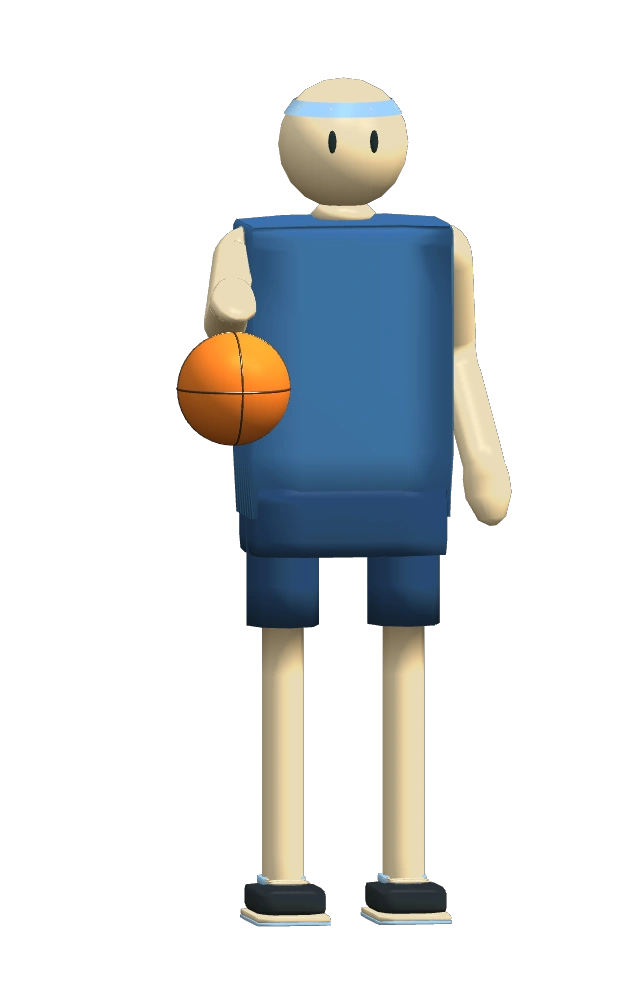
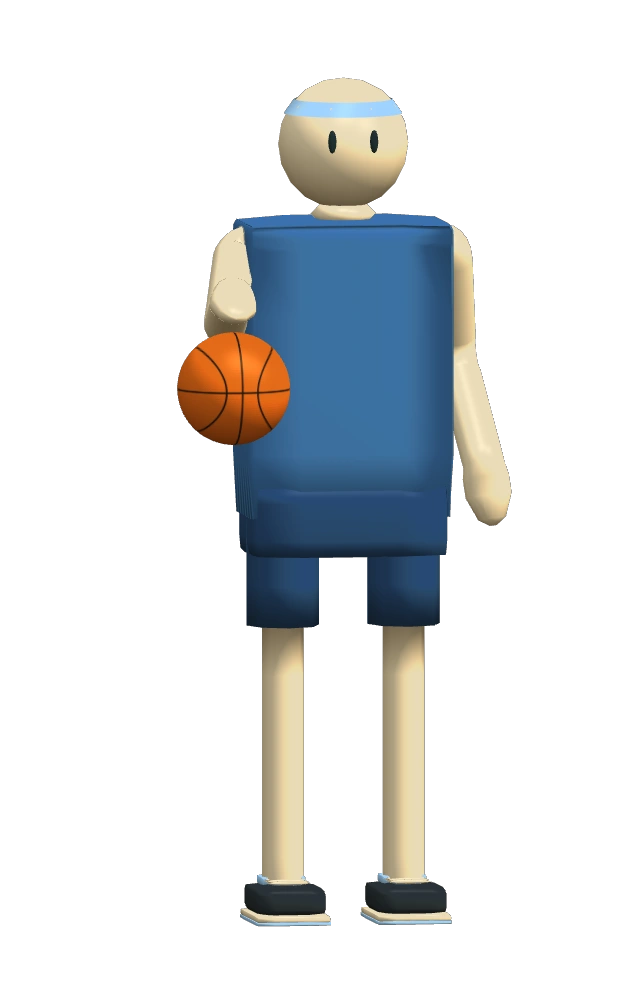
공 디자인 수정

Changed region(s): [[0.2812, 0.31, 0.4688, 0.434], [0.3125, 0.403, 0.3438, 0.434]]

diff --git a/apps/web/game/createBasketball.ts b/apps/web/game/createBasketball.ts
@@ -1,0 +1,36 @@
+import {Color3,MeshBuilder,StandardMaterial,RawTexture,Scene,Texture} from '@babylonjs/core';
+import {COURT} from '../../../packages/game-core/src/court';
+// Visual tuning only. Radius and all contacts still come from game-core.
+export const BALL_STYLE={width:1024,height:512,segments:32,seamHalfWidth:.012,specularPower:36,normalStrength:.55,pebblePixels:2.8} as const;
+const assets=new WeakMap<Scene,StandardMaterial>();
+const clamp=(n:number)=>Math.max(0,Math.min(1,n));
+const smooth=(a:number,b:number,n:number)=>{const t=clamp((n-a)/(b-a));return t*t*(3-2*t);};
+const noise=(x:number,y:number)=>{let n=Math.imul(x+751,374761393)^Math.imul(y+191,668265263);n=Math.imul(n^(n>>>13),1274126177);return ((n^(n>>>16))>>>0)/4294967295;};
+function material(scene:Scene){
+ const found=assets.get(scene);if(found)return found;
+ const leatherBase=[237,111,25],channelBase=[23,20,15];
+ const {width:w,height:h}=BALL_STYLE,albedo=new Uint8Array(w*h*3),height=new Float32Array(w*h);
+ for(let row=0;row<h;row++){
+  const v=(row+.5)/h,sy=Math.cos(v*Math.PI),latitude=Math.sin(v*Math.PI);
+  for(let col=0;col<w;col++){
+   const u=(col+.5)/w,sx=latitude*Math.cos(u*Math.PI*2);
+   // Two great-circle channels plus the curved panel pair seen on a basketball.
+   const curved=Math.abs(Math.abs(sx)-(.28+.70*sy*sy))/Math.sqrt(1+1.96*sy*sy);
+   const distance=Math.min(Math.abs(sy),Math.abs(sx),curved),panel=smooth(BALL_STYLE.seamHalfWidth,BALL_STYLE.seamHalfWidth+.005,distance);
+   const gy=row/BALL_STYLE.pebblePixels,cy=Math.floor(gy),gx=col/BALL_STYLE.pebblePixels+(cy%2)*.5,cx=Math.floor(gx),dx=gx-cx-.5+(noise(cx,cy)-.5)*.22,dy=gy-cy-.5+(noise(cy,cx)-.5)*.2;
+   const pebble=Math.pow(Math.max(0,1-(dx*dx+dy*dy)*5.7),.7),grain=(noise(col,row)-.5)*4,tone=.94+pebble*.06;
+   const at=row*w+col;height[at]=panel*(.45+pebble*.22);
+   const index=at*3;for(let c=0;c<3;c++){const leather=leatherBase[c]*tone+grain,channel=channelBase[c];albedo[index+c]=Math.round(channel+(leather-channel)*panel);}
+  }
+ }
+ const normal=new Uint8Array(w*h*3);
+ for(let row=0;row<h;row++)for(let col=0;col<w;col++){
+  const x=(height[row*w+(col+w-1)%w]-height[row*w+(col+1)%w])*BALL_STYLE.normalStrength,y=(height[Math.max(0,row-1)*w+col]-height[Math.min(h-1,row+1)*w+col])*BALL_STYLE.normalStrength,length=Math.hypot(x,y,1),at=(row*w+col)*3;
+  normal[at]=Math.round((x/length*.5+.5)*255);normal[at+1]=Math.round((y/length*.5+.5)*255);normal[at+2]=Math.round((1/length*.5+.5)*255);
+ }
+ const color=RawTexture.CreateRGBTexture(albedo,w,h,scene,true,false,Texture.TRILINEAR_SAMPLINGMODE),bump=RawTexture.CreateRGBTexture(normal,w,h,scene,true,false,Texture.TRILINEAR_SAMPLINGMODE);color.name='basketball:leather';color.gammaSpace=true;bump.name='basketball:grain-normal';bump.gammaSpace=false;
+ const result=new StandardMaterial('basketball:pebbled-leather',scene);result.diffuseColor=Color3.White();result.diffuseTexture=color;result.bumpTexture=bump;result.specularColor=new Color3(.16,.13,.09);result.specularPower=BALL_STYLE.specularPower;assets.set(scene,result);return result;
+}
+export function createBasketball(scene:Scene,name='ball'){
+ const ball=MeshBuilder.CreateSphere(name,{diameter:COURT.ballRadius*2,segments:BALL_STYLE.segments},scene);ball.material=material(scene);return ball;
+}

diff --git a/apps/web/game/characterPreview.ts b/apps/web/game/characterPreview.ts
@@ -1,3 +1,4 @@
+import {createBasketball} from './createBasketball';
 import {ArcRotateCamera,Color3,Color4,DirectionalLight,Engine,HemisphericLight,MeshBuilder,Scene,SceneInstrumentation,StandardMaterial,UniversalCamera,Vector3} from '@babylonjs/core';
 import {createCharacter,type CharacterAppearance} from './createCharacter';
 import {characterPose,requestCrossover} from '../../../packages/game-core/src/motion';
@@ -35,9 +36,8 @@ export function createCharacterPreview(canvas:HTMLCanvasElement){
  function build(){scene?.dispose();scene=new Scene(engine);scene.clearColor=new Color4(.065,.09,.12,1);const h=new HemisphericLight('sky',Vector3.Up(),scene);h.intensity=.85;h.groundColor=new Color3(.18,.22,.25);const sun=new DirectionalLight('sun',new Vector3(-.4,-1,.5),scene);sun.intensity=1.25;sun.diffuse=new Color3(1,.89,.72);
   if(config.view==='firstPerson'){const c=new UniversalCamera('first-person',new Vector3(0,CFG.eye,0),scene);c.inputs.clear();c.minZ=.06;c.fov=1.22;scene.activeCamera=c;}else{const alpha=config.view==='front'?Math.PI/2:config.view==='back'?-Math.PI/2:0,c=new ArcRotateCamera('comparison',alpha,1.40,config.count===8?8:4.8,new Vector3(0,1.4,config.count===8?.8:0),scene);c.minZ=.03;scene.activeCamera=c;}
   const floor=MeshBuilder.CreateGround('floor',{width:20,height:20},scene),fm=new StandardMaterial('floor',scene);fm.diffuseColor=Color3.FromHexString('#3f5553');floor.material=fm;floor.position.y=COURT.floorY;
-  const bm=new StandardMaterial('ball',scene);bm.diffuseColor=Color3.FromHexString('#db762c');
   rigs=Array.from({length:config.count},(_,i)=>createCharacter(scene,{name:'preview-'+i,firstPerson:config.view==='firstPerson',appearance:config.appearance==='legacy'?'legacy':'minimal'}));for(const r of rigs)r.root.setEnabled(config.appearance!=='hidden');
-  balls=rigs.map((_,i)=>{const m=MeshBuilder.CreateSphere('ball-'+i,{diameter:COURT.ballRadius*2,segments:12},scene);m.material=bm;return m;});instrument=new SceneInstrumentation(scene);seed();for(let t=0;t<config.time-CFG.dt/2;t+=CFG.dt)step();display();frames.clear();cpu.clear();frameCount=0;accumulator=0;last=performance.now();
+  balls=rigs.map((_,i)=>createBasketball(scene,'ball-'+i));instrument=new SceneInstrumentation(scene);seed();for(let t=0;t<config.time-CFG.dt/2;t+=CFG.dt)step();display();frames.clear();cpu.clear();frameCount=0;accumulator=0;last=performance.now();
  }
  function configure(next:Partial<PreviewConfig>){config={...config,...next};build();}
  build();

diff --git a/apps/web/game/createGame.ts b/apps/web/game/createGame.ts
@@ -1,3 +1,4 @@
+import {createBasketball} from './createBasketball';
 import {teamMode} from '../../../packages/game-core/src/match';
 import {TEAM,type TeamId} from '../../../packages/game-core/src/teams';
 import {createRemoteCharacters} from './remoteCharacters';
@@ -43,7 +44,7 @@ export function createGame(canvas:HTMLCanvasElement,onUpdate:(s:Snapshot)=>void,
  const hoopMeter=createHoopShotMeter(canvas,scene,camera);
  const gym=createIndoorGym(scene);
  function mat(name:string,hex:string,emission=0){const m=new StandardMaterial(name,scene);m.diffuseColor=Color3.FromHexString(hex);m.specularColor=new Color3(.08,.08,.08);m.emissiveColor=m.diffuseColor.scale(emission);return m;}
- const white=mat('markings','#efe8d6',.1),metal=mat('metal','#454c45'),orange=mat('rim','#e97132',.2),ballmat=mat('basketball','#d77a32'),dark=mat('seams','#4d321e');
+ const white=mat('markings','#efe8d6',.1),metal=mat('metal','#454c45'),orange=mat('rim','#e97132',.2);
  function line(name:string,pts:Vector3[],material=white,radius=.025){const m=MeshBuilder.CreateTube(name,{path:pts,radius,tessellation:6},scene);m.material=material;return m;}
  const pole=MeshBuilder.CreateCylinder('pole',{height:4.8,diameter:.18},scene);pole.position.set(0,2.4,7.5);pole.material=metal;
  const arm=MeshBuilder.CreateBox('support',{width:.15,height:.15,depth:1.5},scene);arm.position.set(0,3.8,6.9);arm.material=metal;
@@ -65,9 +66,7 @@ export function createGame(canvas:HTMLCanvasElement,onUpdate:(s:Snapshot)=>void,
   line('backboard-rear-brace',[new Vector3(side*.65,COURT.board.center.y-.34,COURT.board.center.z+.06),new Vector3(0,3.8,6.9)],metal,.025);
  }
  const net=createNet(scene,white);
- const ball=MeshBuilder.CreateSphere('ball',{diameter:CFG.ballRadius*2,segments:20},scene);ball.material=ballmat;
- for(const rot of[0,Math.PI/2]){const seam=MeshBuilder.CreateTorus('seam',{diameter:.239,thickness:.006,tessellation:40},scene);seam.parent=ball;seam.rotation.x=rot;seam.material=dark;}
- const seam=MeshBuilder.CreateTorus('seam',{diameter:.239,thickness:.006,tessellation:40},scene);seam.parent=ball;seam.rotation.z=Math.PI/2;seam.material=dark;
+ const ball=createBasketball(scene);
  // Development-only collider overlay; these meshes never drive simulation.
  const debugMeshes: Mesh[]=[];
  const acquisitionMeshes: Mesh[]=[];

diff --git a/apps/web/public/assets/lobby/ATTRIBUTIONS.md b/apps/web/public/assets/lobby/ATTRIBUTIONS.md
@@ -14,3 +14,5 @@
 ```text
 Create a single production website background image asset, landscape 16:9, no text anywhere, no UI, no logos, no people or characters. A warm sunset outdoor neighborhood basketball half court in a restrained stylized 3D game-art aesthetic, slightly low-poly but polished, muted teal playing surface and warm terracotta lane, clean ivory court lines, chain-link fence, one functional hoop with backboard on the upper right, a bench and soft rounded trees, low-rise buildings in the distance, golden orange evening sun from upper left with soft elongated shadows. Eye level viewing angle, foreground court provides a grounded place for a separately overlaid 1.8m slender game character in right-center. Keep the lower right-center court uncluttered, keep background architecture and hoop behind that area. Composition will be cropped to the right 60 percent of a full-screen game lobby, so prioritize the hoop and environment across the middle/right. Warm cream highlights, deep desaturated teal shadows, soft peach sky. Beautiful balanced lighting, calm readable backdrop, not photorealistic, not a poster. No people, no mascot, no lettering or watermarks.
 ```
+
+농구공 업데이트: 저장소 `createBasketball.ts`의 절차적 가죽·곡선 경계·노멀 텍스처를 사용해 캐릭터 이미지를 다시 출력했다. 참고 사진을 텍스처로 복사하거나 외부 사진을 포함하지 않았다.

diff --git a/docs/player-lobby.md b/docs/player-lobby.md
@@ -64,3 +64,13 @@ Windows: `npm.cmd run dev:online`.
 이번 후속 수정은 웹 타입 검사만 수행했다. 수동으로 네 메뉴 진입, 뒤로가기, 빠른 연속 전환과 스크롤을 확인한다.
 
 중복된 온라인 플레이 중간 메뉴를 제거했다. 방 찾기/만들기/코드 참가의 뒤로가기는 메인 로비로 직접 돌아온다. 빠른 플레이 연결 중에는 검색/취소 안내만 표시하며 기존 연결 취소 규약은 유지한다.
+
+## 농구공 재질
+
+게임·캐릭터 미리보기·로비 에셋은 `apps/web/game/createBasketball.ts`를 공유한다.
+기존 3개의 돌출된 Torus 고리를 없애고, 주황색 가죽/검은 곡선 패널/미세 요철을
+절차적 색상·노멀 텍스처로 한 번 생성해 Scene 안에서 재사용한다. 외부 사진 텍스처는 사용하지 않는다.
+`BALL_STYLE`에서 선 폭, 요철 크기/강도, 반사와 구체 분할을 조절한다.
+게임 공 반경은 기존 COURT.ballRadius이며 물리·소유권·득점 로직은 바꾸지 않는다.
+로비 캐릭터 이미지 6종도 다시 출력했다. 이번 외형 수정은 타입 검사와 에셋 출력만 확인했으며
+실제 플레이 중 조명/회전/근접 질감은 사용자가 확인한다.
